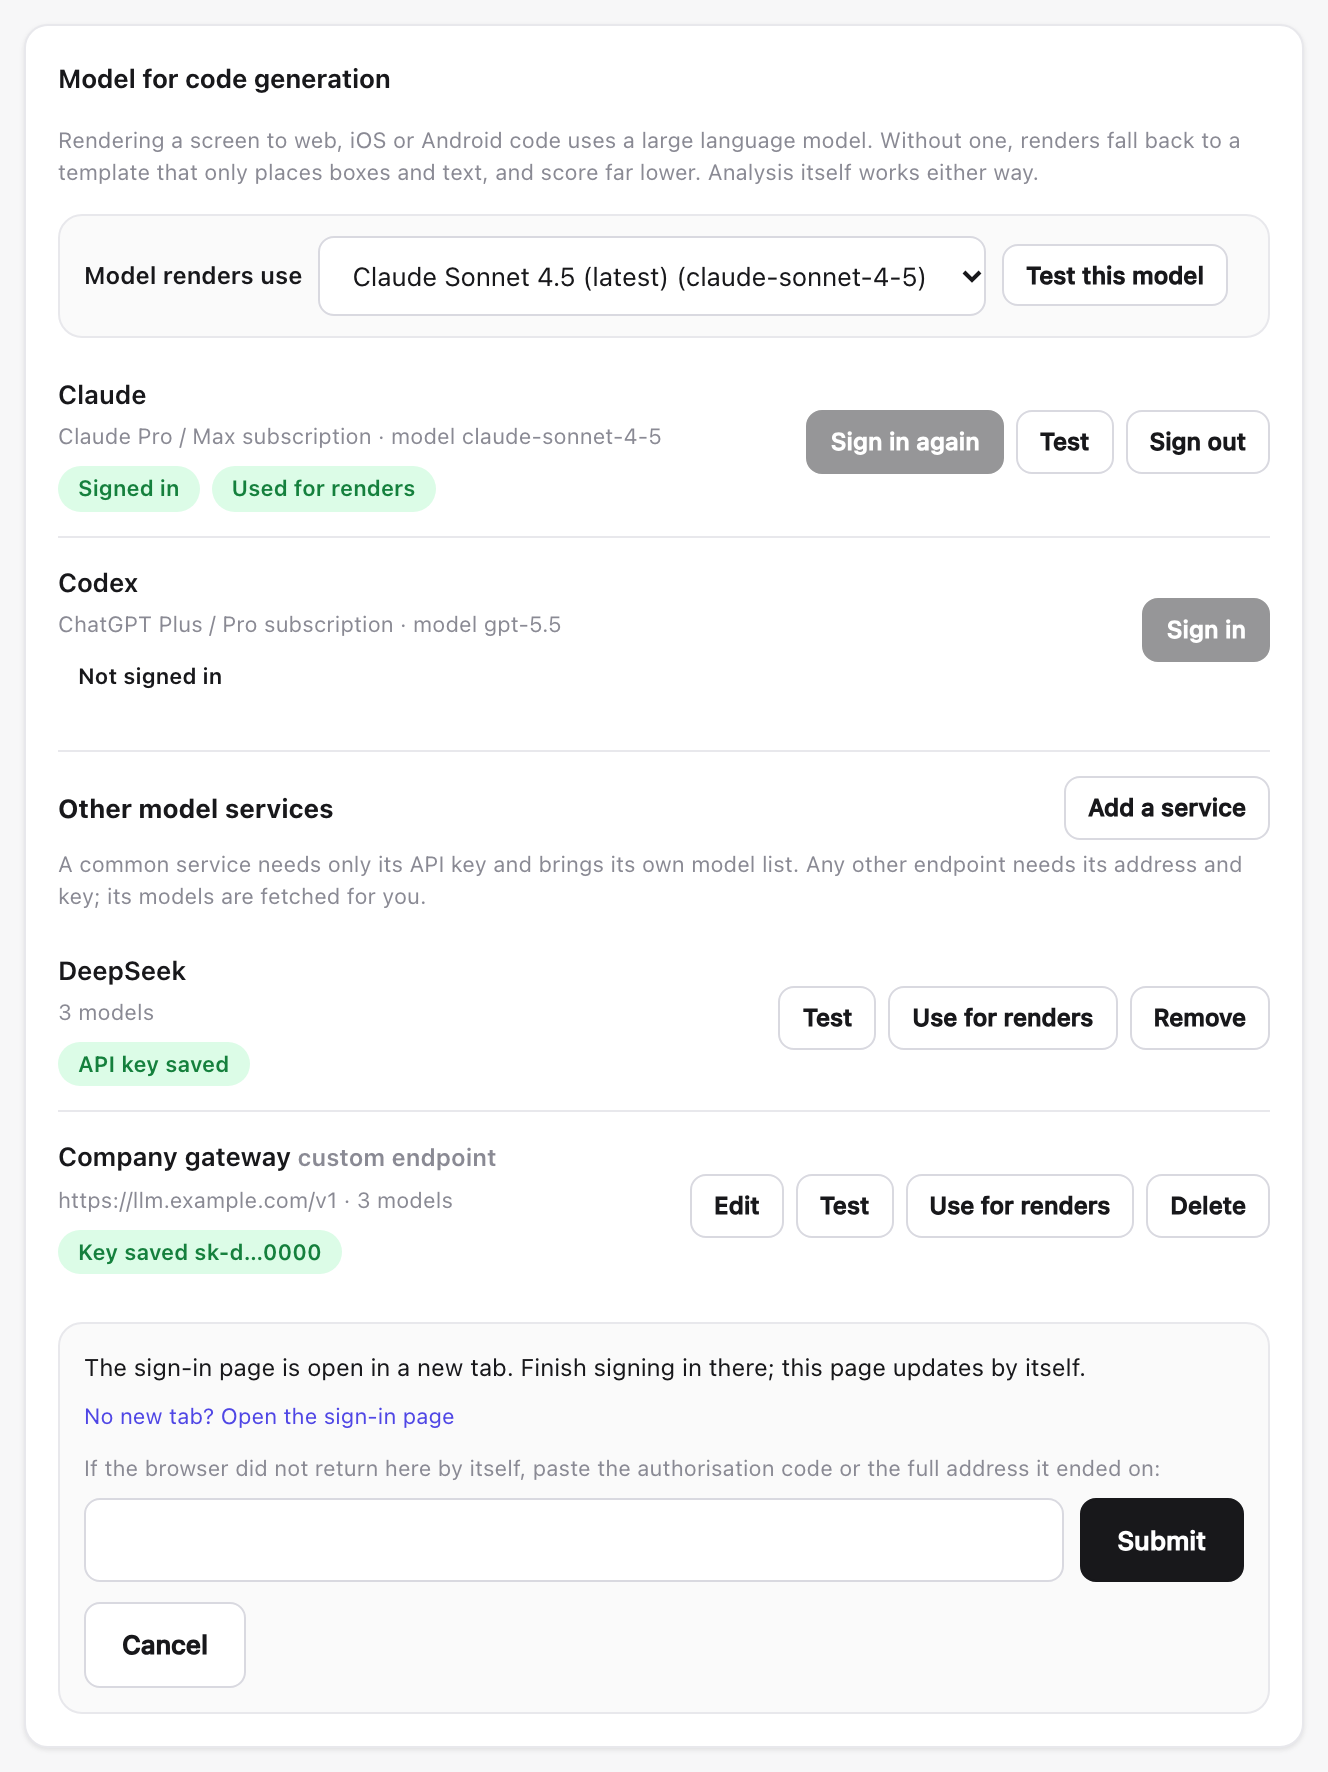
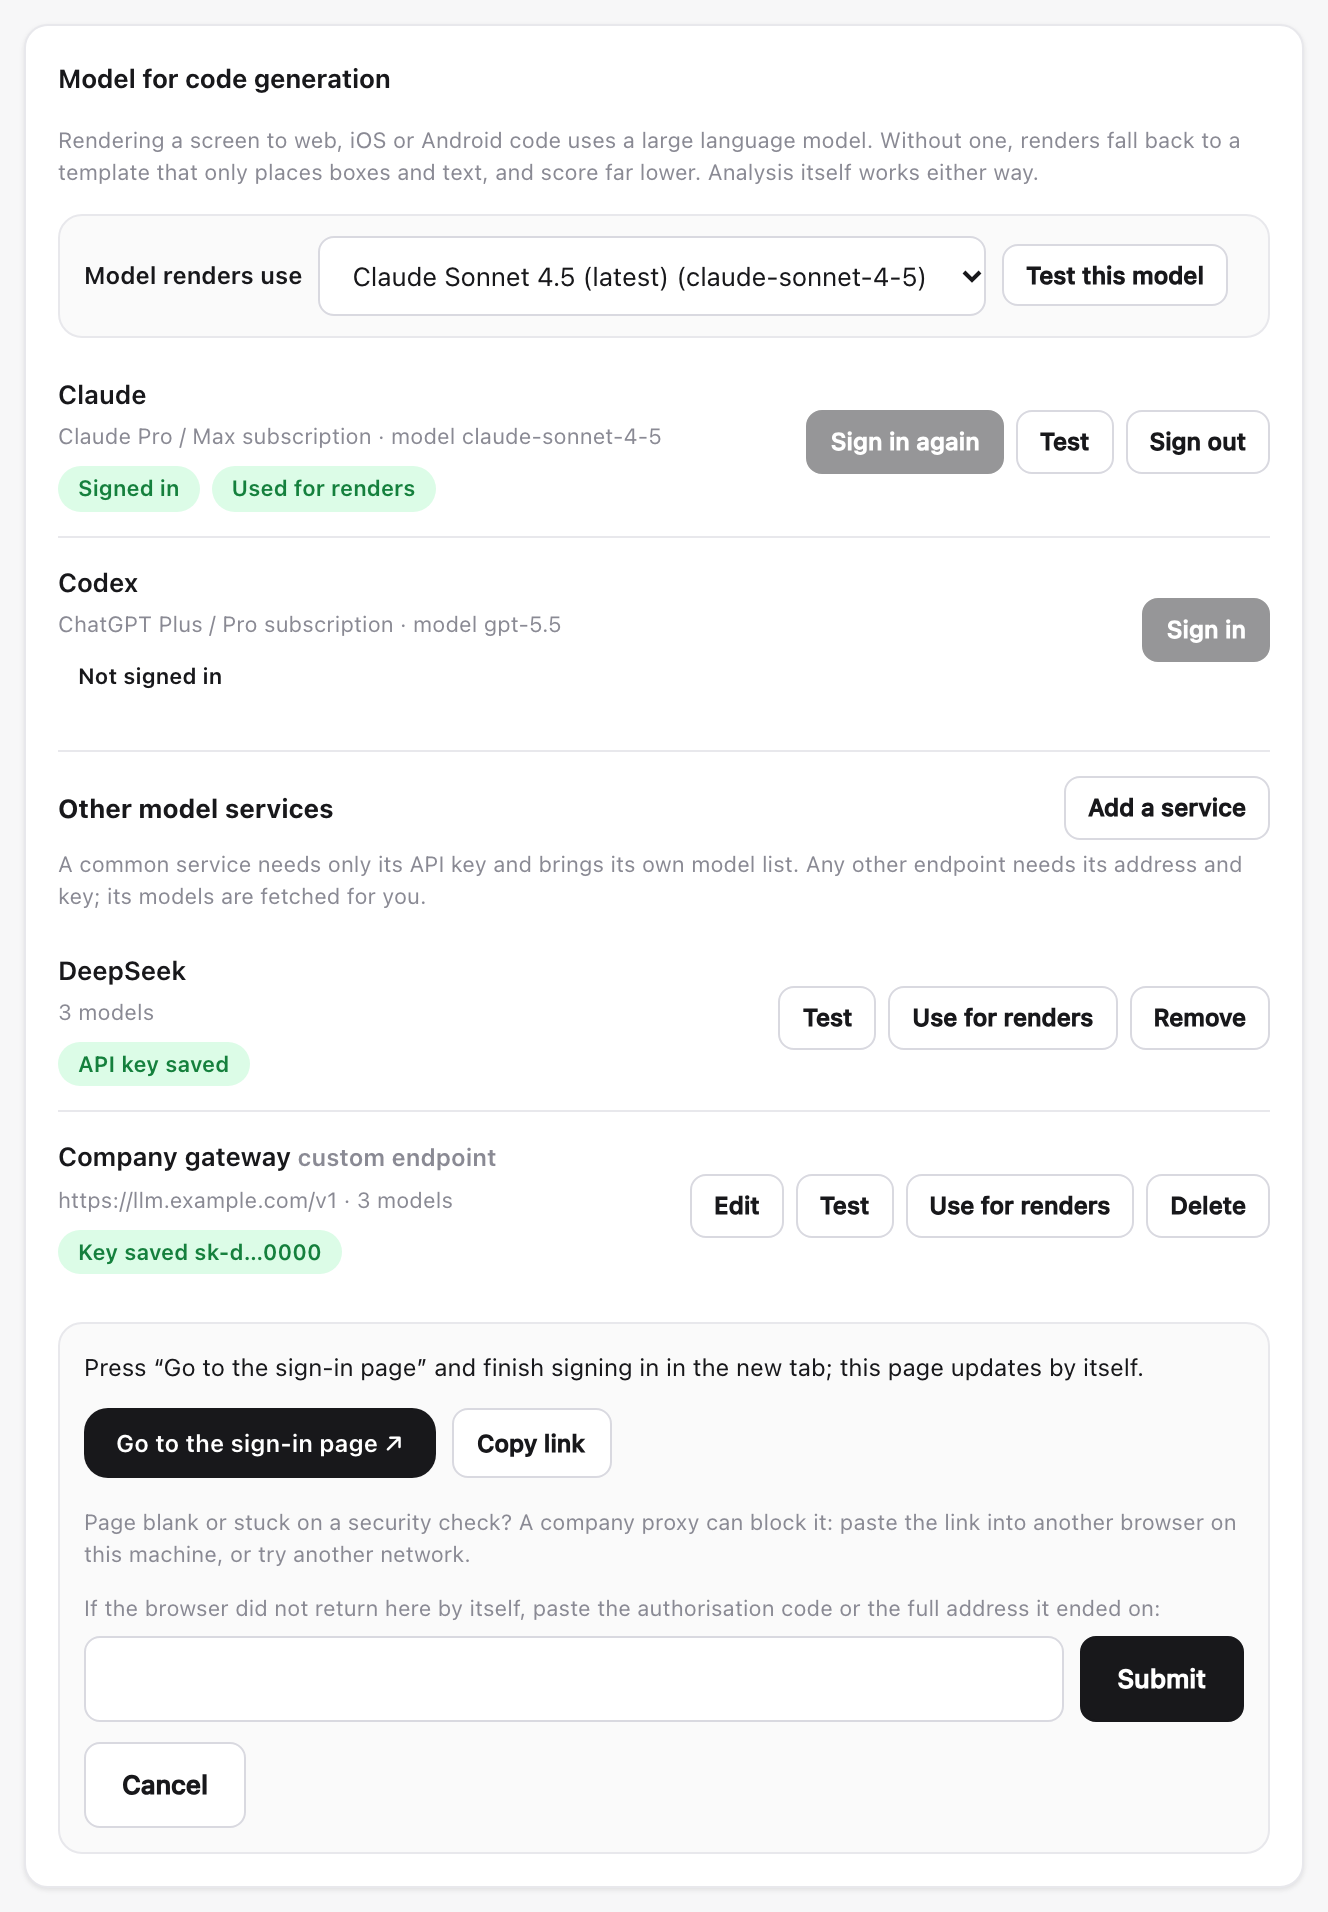
Fix Codex and Claude sign-in from the web page
Two faults stopped a sign-in completing in a real browser.

A blank tab. Sign-in opened about:blank inside the click, then pointed it
at the authorisation URL once the server had one. That second step did not
take in every browser, and the tab stayed blank. The page now shows a
"Go to the sign-in page" link once the URL exists -- a real link the user
clicks, which no browser blocks -- with "Copy link" for opening it in
another browser when a company proxy blocks the page.

A lost callback. The provider redirects to http://localhost:<port>; the
SDK listens on 127.0.0.1 only. Where localhost resolves to ::1 first, a
browser that does not fall back to IPv4 was refused, and the code stayed in
its address bar. For the length of a sign-in, [::1] on the same port is now
forwarded to 127.0.0.1, for Codex (1455) and Claude (53692), from the web
page and the CLI alike.

The model setup guide and its screenshots show the new sign-in panel.

diff --git a/src/web/settings-ui.js b/src/web/settings-ui.js
@@ -73,8 +73,11 @@ export function settingsCards(t) {
     "</div>",
     '<div id="llm-login" class="lm-panel" hidden>',
     '  <div id="llm-login-msg" class="lm-msg"></div>',
-    '  <div id="llm-login-link" class="hint" hidden><a target="_blank" rel="noopener" id="llm-login-a">'
-      + esc(t("settings.llm.openLink")) + "</a></div>",
+    // A real link the user clicks: opening a blank tab first and pointing it
+    // at the sign-in page later left it blank in some browsers.
+    '  <div id="llm-login-link" class="lm-go" hidden><a target="_blank" rel="noopener" id="llm-login-a" class="lm-go-btn">'
+      + esc(t("settings.llm.openAuth")) + ' ↗</a><button class="ghost" id="llm-login-copy">' + esc(t("settings.llm.copyLink")) + "</button>"
+      + '<div class="hint" style="margin:6px 0 0">' + esc(t("settings.llm.copyHint")) + "</div></div>",
     '  <div id="llm-paste" hidden style="margin-top:10px">',
     '    <div class="hint" style="margin:0 0 6px">' + esc(t("settings.llm.paste")) + "</div>",
     '    <div style="display:flex;gap:8px"><input id="llm-code" autocomplete="off" spellcheck="false">',
@@ -103,6 +106,11 @@ export function settingsCards(t) {
     ".lm-act button,.lm-sdk button{padding:5px 11px;font-size:var(--t-sm)}",
     ".lm-panel{margin-top:12px;padding:12px;border:1px solid var(--line);border-radius:var(--r-md);background:var(--surface-2)}",
     ".lm-msg{font-size:var(--t-sm)}",
+    ".lm-go{margin-top:10px;display:flex;gap:8px;align-items:center;flex-wrap:wrap}",
+    ".lm-go .hint{flex-basis:100%}",
+    ".lm-go-btn{display:inline-block;padding:8px 16px;border-radius:var(--r-md);background:var(--ink);color:var(--surface);font-weight:600;font-size:var(--t-sm);text-decoration:none}",
+    ".lm-go-btn:hover{opacity:.9}",
+    ".lm-go button{padding:7px 12px;font-size:var(--t-sm)}",
     ".lm-sdk{display:flex;justify-content:space-between;align-items:center;gap:12px;padding:10px 12px;margin-bottom:8px;border-radius:var(--r-md);background:var(--warn-weak)}",
     ".lm-log{font:12px/1.5 ui-monospace,Menlo,monospace;color:var(--ink-3);white-space:pre-wrap;margin-top:6px;max-height:140px;overflow:auto}",
     ".dc-row{display:grid;grid-template-columns:150px 64px 1fr;gap:10px;padding:8px 0;border-top:1px solid var(--line);font-size:var(--t-sm);align-items:start}",
@@ -152,6 +160,7 @@ export function settingsScript(t) {
     testing: t("settings.llm.testing"), ok: t("settings.llm.ok"),
     expired: t("settings.llm.expired"), error: t("settings.llm.error"),
     starting: t("settings.llm.starting"), waiting: t("settings.llm.waiting"),
+    copyLink: t("settings.llm.copyLink"), copied: t("settings.llm.copied"),
     done: t("settings.llm.done"), failed: t("settings.llm.failed"), cancelled: t("settings.llm.cancelled"),
     sdkMissing: t("settings.llm.sdkMissing"), install: t("settings.llm.install"),
     installing: t("settings.llm.installing"), installFailed: t("settings.llm.installFailed"),
@@ -221,7 +230,7 @@ async function runDoctor(){
 }
 
 /* ---- model sign-in ---- */
-var state=null,poll=null,popup=null,opened=null;
+var state=null,poll=null;
 async function loadLlm(){
   state=await api('/api/llm');
   if(state.error){$('llm-list').textContent=state.error;return;}
@@ -270,12 +279,8 @@ async function act(a,p){
   }
 }
 async function login(p){
-  /* Open the tab inside the click: a window opened after an await is
-     treated as a popup and blocked. Its address is set once the server
-     has the authorisation URL. */
-  popup=window.open('about:blank','_blank');opened=null;
   var r=await api('/api/llm/login',{provider:p});
-  if(r.error){if(popup)popup.close();toast(r.error);return;}
+  if(r.error){toast(r.error);return;}
   follow(r.id);
 }
 function follow(id){
@@ -292,14 +297,17 @@ function follow(id){
     if(s.error){stop();return;}
     if(s.authUrl){
       $('llm-login-a').href=s.authUrl;$('llm-login-link').hidden=false;
-      if(opened!==s.authUrl){opened=s.authUrl;if(popup&&!popup.closed)popup.location=s.authUrl;}
+      $('llm-login-copy').onclick=function(){
+        var done=function(){toast(L.copied);};
+        if(navigator.clipboard)navigator.clipboard.writeText(s.authUrl).then(done,function(){window.prompt(L.copyLink,s.authUrl);});
+        else window.prompt(L.copyLink,s.authUrl);
+      };
     }
     $('llm-paste').hidden=!s.prompt;
     if(s.status==='running'){$('llm-login-msg').textContent=s.authUrl?L.waiting:L.starting;return;}
     stop();
     if(s.status==='done'){toast(fmt(L.done,s.model||''));$('llm-login').hidden=true;}
     else{
-      if(popup&&!popup.closed&&s.status==='cancelled')popup.close();
       $('llm-login-msg').innerHTML=pill('bad',s.status==='cancelled'?L.cancelled:L.failed)
         +(s.error?' <span class="muted">'+esc(s.error)+'</span>':'');
       $('llm-paste').hidden=true;$('llm-login-link').hidden=true;

diff --git a/src/i18n/strings.js b/src/i18n/strings.js
@@ -185,9 +185,13 @@ const S = {
   "settings.llm.expired": { en: "Login expired — sign in again", zh: "登录已过期，请重新登录" },
   "settings.llm.error":  { en: "Error",      zh: "连接出错" },
   "settings.llm.starting": { en: "Preparing the sign-in page…", zh: "正在准备授权页面…" },
-  "settings.llm.waiting": { en: "The sign-in page is open in a new tab. Finish signing in there; this page updates by itself.",
-                           zh: "授权页面已在新标签页打开，请在那里完成登录，本页会自动更新。" },
-  "settings.llm.openLink": { en: "No new tab? Open the sign-in page", zh: "没有自动打开？点这里打开授权页面" },
+  "settings.llm.waiting": { en: "Press “Go to the sign-in page” and finish signing in in the new tab; this page updates by itself.",
+                           zh: "点「前往授权页面」，在新标签页完成登录，本页会自动更新。" },
+  "settings.llm.openAuth": { en: "Go to the sign-in page", zh: "前往授权页面" },
+  "settings.llm.copyLink": { en: "Copy link", zh: "复制链接" },
+  "settings.llm.copied": { en: "Link copied", zh: "链接已复制" },
+  "settings.llm.copyHint": { en: "Page blank or stuck on a security check? A company proxy can block it: paste the link into another browser on this machine, or try another network.",
+                           zh: "页面空白或一直停在安全验证？可能被公司代理拦截了：把链接粘贴到本机的另一个浏览器，或换个网络再试。" },
   "settings.llm.paste":  { en: "If the browser did not return here by itself, paste the authorisation code or the full address it ended on:",
                            zh: "如果浏览器没有自动跳回，把授权码或跳转后的完整网址粘贴到这里：" },
   "settings.llm.submit": { en: "Submit",     zh: "提交" },

diff --git a/docs/model-services.md b/docs/model-services.md
@@ -34,16 +34,19 @@ gateway.
 For Claude (Claude Pro / Max) or Codex (ChatGPT Plus / Pro):
 
 1. Press **Sign in** next to Claude or Codex.
-2. The provider's sign-in page opens in a new tab. Approve it there.
+2. Press **Go to the sign-in page**. The provider's sign-in page opens in a
+   new tab; approve it there.
 3. The browser returns to this machine by itself and the card updates to
    **Signed in · Used for renders**.
 
 ![Signing in to Codex](images/models-signin.en.png)
 
-If no tab opened, use **No new tab? Open the sign-in page**. If the browser
-could not return here by itself -- signing in from another machine, say --
-paste the code or the full address it ended on into the box and press
-**Submit**. **Cancel** stops the sign-in at any point.
+If the sign-in page stays blank or stuck on a security check, a company proxy
+is likely blocking it: press **Copy link** and open it in another browser on
+this machine, or try another network. If the browser could not return here by
+itself -- signing in from another machine, say -- paste the code or the full
+address it ended on into the box and press **Submit**. **Cancel** stops the
+sign-in at any point.
 
 ```bash
 dsh-figma-design-lens-cat llm login anthropic      # or openai-codex

diff --git a/docs/model-services.zh.md b/docs/model-services.zh.md
@@ -26,12 +26,12 @@
 适用于 Claude（Claude Pro / Max）和 Codex（ChatGPT Plus / Pro）：
 
 1. 点 Claude 或 Codex 旁边的 **登录授权**。
-2. 新标签页会打开官方的授权页面，在那里点同意。
+2. 点 **前往授权页面**，新标签页会打开官方的授权页面，在那里点同意。
 3. 浏览器会自动跳回本机，卡片随之更新为 **已登录 · 当前用于渲染**。
 
 ![登录 Codex](images/models-signin.zh.png)
 
-如果没有自动打开新标签页，点 **没有自动打开？点这里打开授权页面**。如果浏览器没能自动跳回（比如在另一台电脑上登录），把授权码或跳转后的完整网址粘贴到输入框里，点 **提交**。随时可以点 **取消** 中止登录。
+如果授权页面一直空白，或者停在安全验证上，多半是被公司代理拦截了：点 **复制链接**，把链接粘贴到本机的另一个浏览器里打开，或者换个网络再试。如果浏览器没能自动跳回（比如在另一台电脑上登录），把授权码或跳转后的完整网址粘贴到输入框里，点 **提交**。随时可以点 **取消** 中止登录。
 
 ```bash
 dsh-figma-design-lens-cat llm login anthropic      # 或 openai-codex
